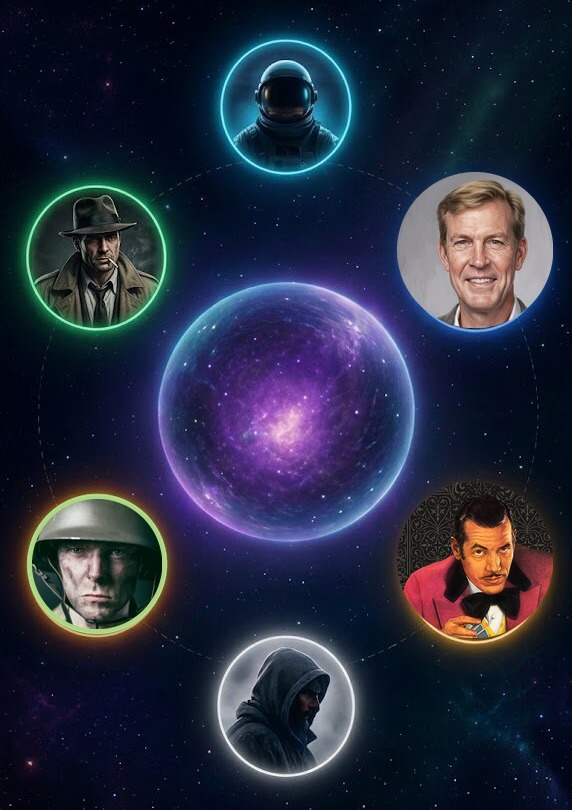
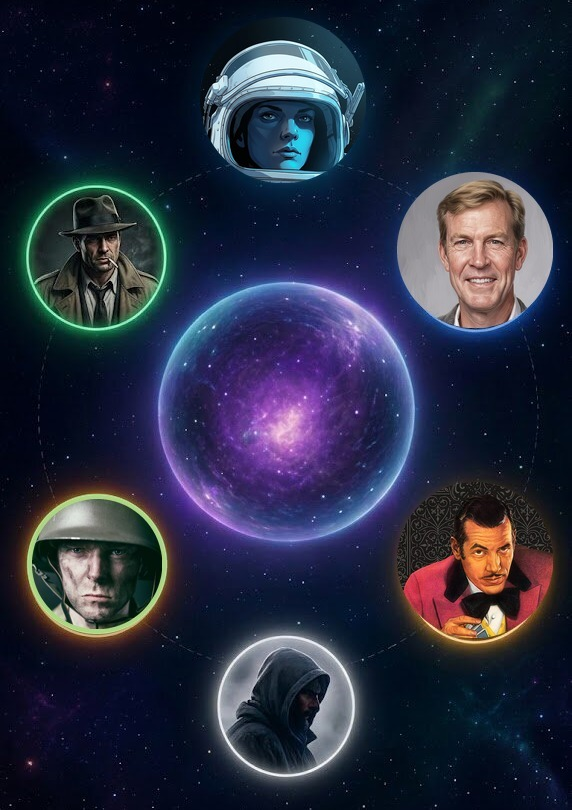
Increase orb pulse amplitude ~22%; swap in the new Astronaut portrait
index.css: orb breathing keyframe scale 1.18 -> 1.22, brightness 1.35 -> 1.43 (within the requested 20-25% range, applied to the pulse's growth amount rather than treating 1.18 itself as the base to inflate by that percentage, which would have made it excessively large).

mindtip-home-ring.jpg: new illustrated astronaut portrait composited at the existing slot (283,100, r=83) -- no position/geometry change, matches the blue palette already established for this character.

Portrait spacing (the third ask) intentionally not touched in this commit -- see chat for a real geometric constraint found before attempting it, to avoid spending effort on a change that can't fully work as described.

Changed region(s): [[0.3269, 0.0309, 0.6538, 0.2469]]

diff --git a/src/index.css b/src/index.css
@@ -63,7 +63,7 @@ body {
 
 @keyframes mindtip-home-orb-breathe {
   0%, 100% { transform: scale(1); filter: brightness(1); }
-  50% { transform: scale(1.18); filter: brightness(1.35); }
+  50% { transform: scale(1.22); filter: brightness(1.43); }
 }
 .mindtip-home-orb-breathe {
   animation: mindtip-home-orb-breathe 3.2s ease-in-out infinite;
